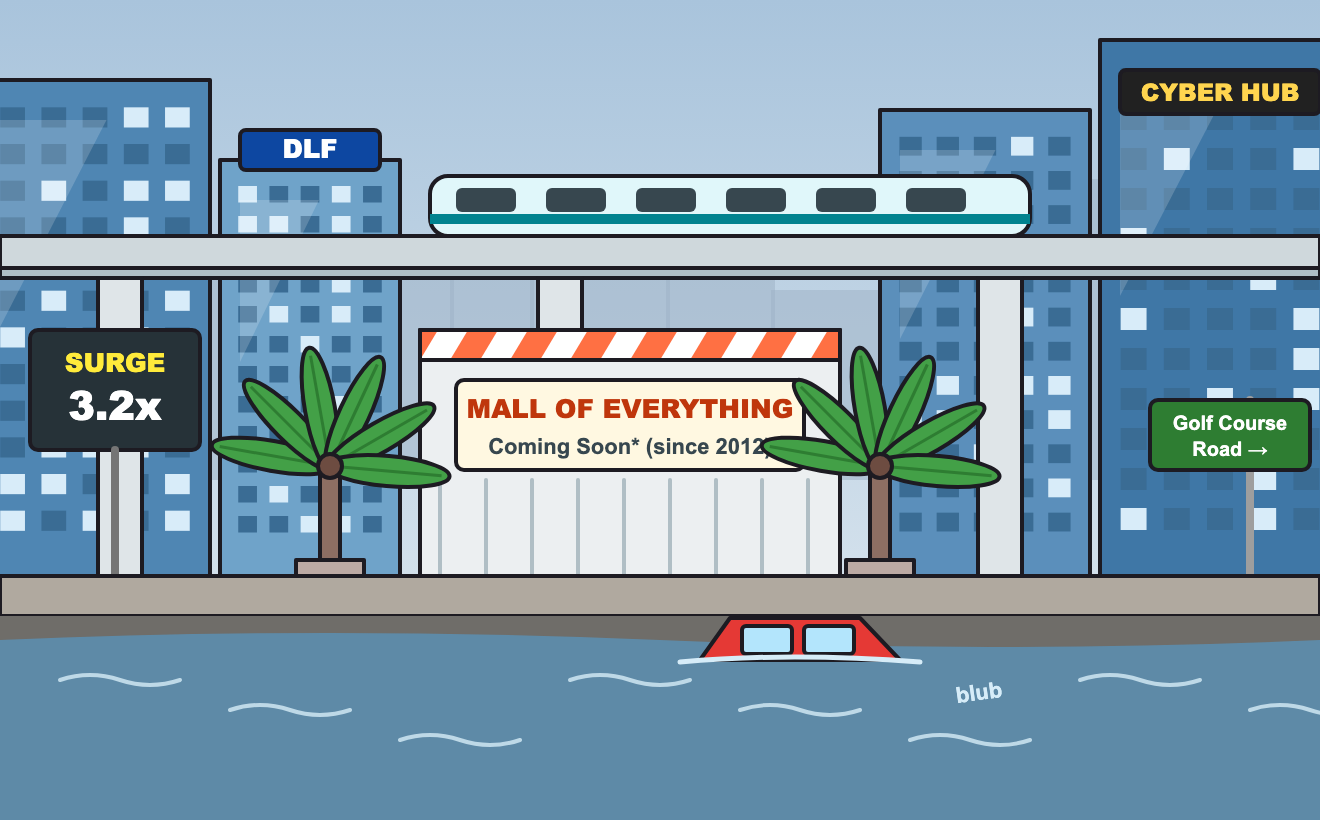
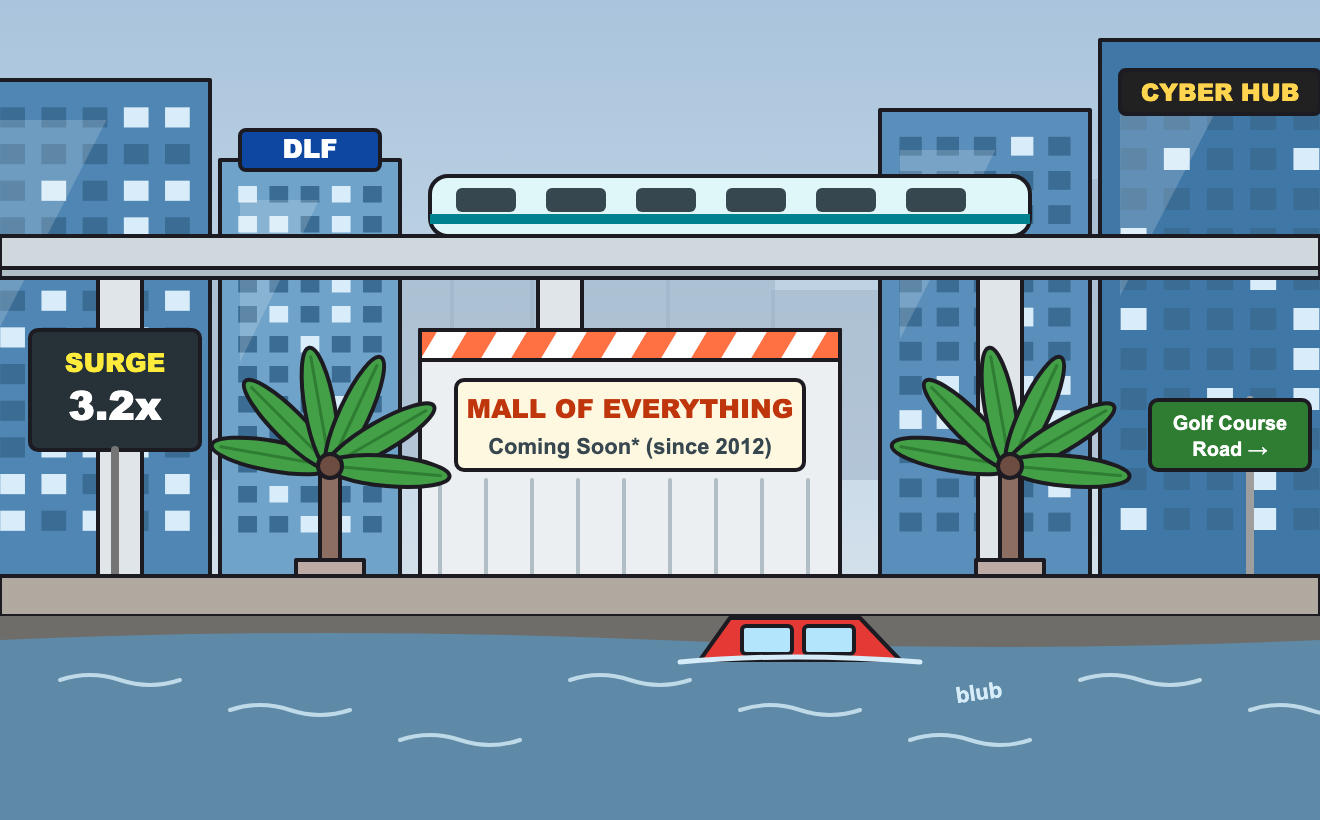
Backgrounds: Gurugram palm clears the 'since 2012' gag; Noida gets wires, potholes and footpath goons
Team feedback (04 Oct):
- Gurugram: the right palm tree moved right so 'Coming Soon* (since 2012)' reads.
- Noida: electric poles with tangled wires (behind the signs), potholes on the
  expressway, and two goons on the footpath (one on a parked bike).

Changed region(s): [[0.5591, 0.4268, 0.8697, 0.7012]]

diff --git a/Art/src/bgs.py b/Art/src/bgs.py
@@ -85,6 +85,12 @@ def noida():
     for x0, w, h in [(40, 200, 420), (270, 160, 340), (1040, 240, 460)]:
         s += rect(x0, 580 - h, w, h, '#7fb3c8') + windows(x0 + 10, 600 - h, w - 20, h - 60, 5, 10, '#5a8ca3', lit='#d6eef7')
     s += rect(1060, 98, 200, 40, '#263238', rx=6) + text(1160, 128, 'IT PARK 62', 26, '#80deea')
+    # electric poles with sagging, tangled wires (drawn before the signs, so the signs sit in front)
+    for px in (150, 1000):
+        s += rect(px - 7, 330, 14, 250, '#6d4c41') + rect(px - 34, 336, 68, 8, '#5d4037')
+    for i in range(5):
+        y0 = 340 + i * 7
+        s += path(f'M -20 {y0 + 20} Q 75 {y0 + 50} 150 {y0} Q 575 {y0 + 90 + i * 8} 1000 {y0} Q 1160 {y0 + 60} 1340 {y0 + 10}', 'none', stroke='#212121', stroke_width='3')
     # half-built flyover, rebar sticking out
     s += rect(380, 300, 470, 46, '#c9c2b8') + rect(380, 340, 470, 12, '#a8a197')
     for px in (450, 720):
@@ -106,6 +112,25 @@ def noida():
     s += rect(0, 580, W, 30, '#9e9e9e') + rect(0, 606, W, 14, '#66bb6a', line=False)
     s += rect(0, 620, W, 210, '#7d7a76', line=False)
     s += ''.join(rect(30 + i * 220, 712, 120, 10, '#ffffff', line=False, opacity='0.8') for i in range(7))
+    # potholes (permanent)
+    for cx, cy, rx, ry in [(300, 676, 62, 14), (840, 772, 54, 13), (1110, 660, 40, 10), (560, 790, 34, 9)]:
+        s += f'<ellipse cx="{cx}" cy="{cy}" rx="{rx}" ry="{ry}" fill="#4a4744" stroke="{OUT}" stroke-width="3"/>'
+        s += f'<ellipse cx="{cx}" cy="{cy - 3}" rx="{rx * 0.7:.0f}" ry="{ry * 0.5:.0f}" fill="#3a3734"/>'
+        s += line(cx + rx - 6, cy, cx + rx + 26, cy - 8, 3, '#3a3734') + line(cx - rx + 4, cy + 2, cx - rx - 20, cy + 10, 3, '#3a3734')
+    # goons on the footpath: one on a parked bike, one with folded arms (background flavour, flat and muted)
+    def goon(x, sitting=False):
+        g = ''
+        if not sitting:
+            g += rect(x - 6, 548, 10, 52, '#4e4b48', rx=4) + rect(x + 6, 548, 10, 52, '#4e4b48', rx=4)                 # legs
+        g += rect(x - 14, 496, 40, 58, '#7b6f66', rx=12)                                                                   # kurta
+        g += rect(x - 16, 510, 44, 14, '#5d534c', rx=6)                                                                    # folded arms
+        g += circle(x + 6, 482, 17, '#a1806a')                                                                              # head
+        g += path(f'M {x - 12} 474 Q {x + 6} 456 {x + 24} 474 L {x + 30} 478 L {x - 12} 478 Z', '#37474f')                # cap
+        g += line(x - 2, 489, x + 14, 489, 3, '#3e2723')                                                                    # moustache
+        return g
+    s += circle(640, 592, 15, '#424242') + circle(716, 592, 15, '#424242')                                                 # bike wheels
+    s += path('M 640 590 L 664 562 L 700 562 L 716 590', 'none', stroke='#b71c1c', stroke_width='9') + rect(660, 552, 44, 12, '#212121', rx=5)
+    s += goon(674, sitting=True) + goon(760)
     # stray dog, sitting
     s += path('M 1180 600 Q 1176 560 1200 548 L 1206 530 L 1216 546 Q 1240 548 1238 576 L 1244 600 Z', '#a1887f') + circle(1218, 556, 3, OUT, line=False)
     return svg(s)
@@ -133,7 +158,7 @@ def gurugram():
     s += rect(30, 330, 170, 120, '#263238', rx=8) + text(115, 372, 'SURGE', 26, '#ffeb3b') + text(115, 420, '3.2x', 40, '#ffffff')
     s += line(115, 450, 115, 580, 8, '#757575')
     # palm trees in planters
-    for px in (330, 880):
+    for px in (330, 1010):   # the right palm stays clear of the mall sign ('since 2012' must read)
         s += rect(px - 10, 470, 20, 110, '#8d6e63') + rect(px - 34, 560, 68, 22, '#bcaaa4')
         for a in (-170, -135, -100, -65, -30, 5):
             s += f'<g transform="rotate({a} {px} 466)"><ellipse cx="{px + 58}" cy="466" rx="62" ry="15" fill="#43a047" stroke="{OUT}" stroke-width="4"/><line x1="{px}" y1="466" x2="{px + 112}" y2="466" stroke="#2e7d32" stroke-width="3"/></g>'
